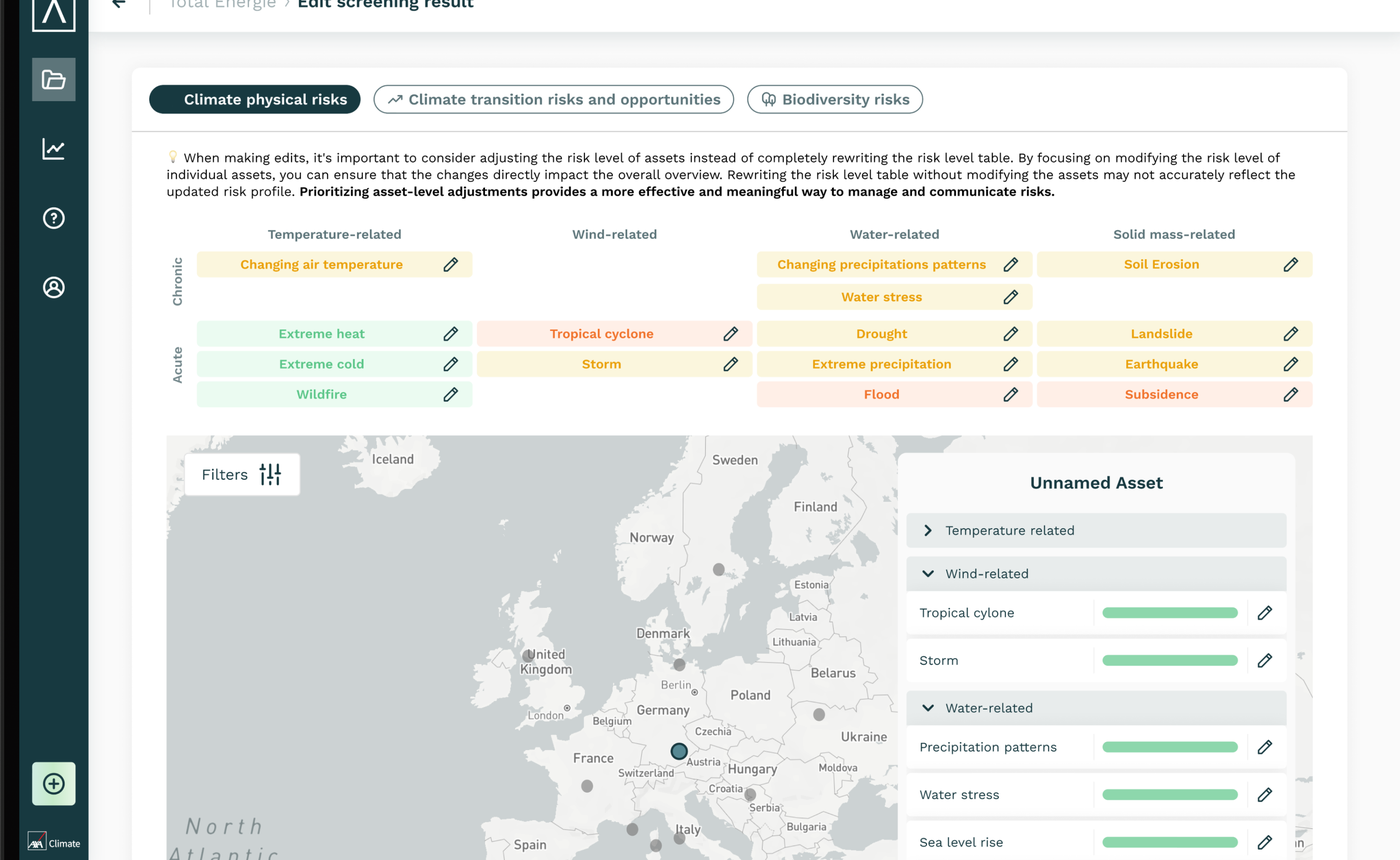
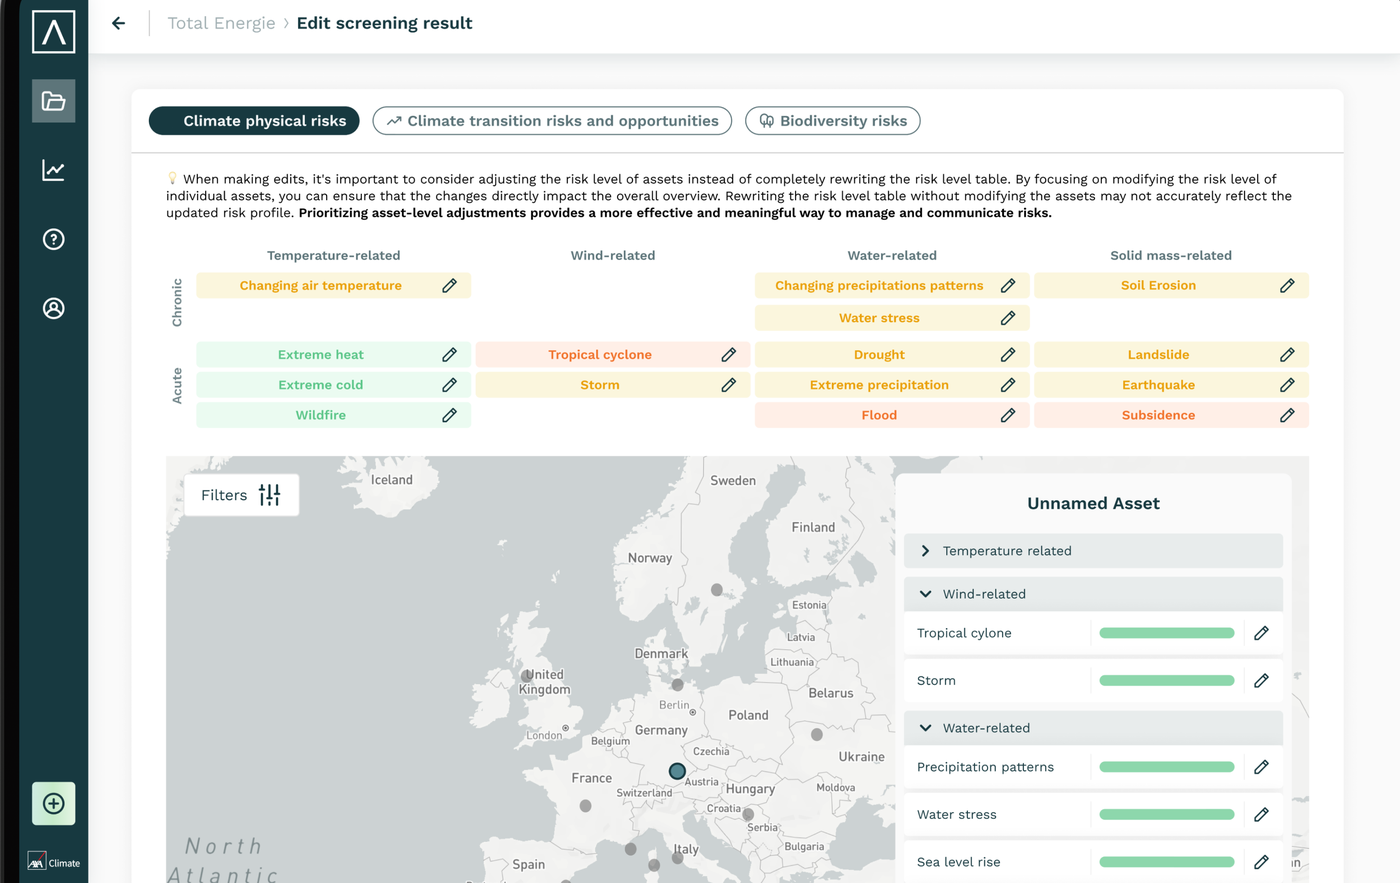
Theodo frieze: full uncut screens with clean uniform thin black rounded frame; erase MacBook notch, include full nav + header

diff --git a/index.html b/index.html
@@ -276,18 +276,18 @@
     </div>
     <div data-reveal style="margin-top:26px;overflow:hidden;">
       <div style="display:flex;gap:16px;width:max-content;animation:marq 55s linear infinite;">
-        <div style="height:400px;flex:none;border-radius:20px;background:#d7efe8;padding:16px;display:flex;align-items:center;justify-content:center;"><img src="assets/theodo-s5.png" alt="" loading="lazy" style="max-height:100%;max-width:100%;width:auto;border-radius:8px;box-shadow:0 10px 30px -18px rgba(26,26,26,.35);object-fit:contain;"></div>
-        <div style="height:400px;flex:none;border-radius:20px;background:#d7efe8;padding:16px;display:flex;align-items:center;justify-content:center;"><img src="assets/theodo-sp1.png" alt="" loading="lazy" style="max-height:100%;max-width:100%;width:auto;border-radius:8px;box-shadow:0 10px 30px -18px rgba(26,26,26,.35);object-fit:contain;"></div>
-        <div style="height:400px;flex:none;border-radius:20px;background:#d7efe8;padding:16px;display:flex;align-items:center;justify-content:center;"><img src="assets/theodo-sp2.png" alt="" loading="lazy" style="max-height:100%;max-width:100%;width:auto;border-radius:8px;box-shadow:0 10px 30px -18px rgba(26,26,26,.35);object-fit:contain;"></div>
-        <div style="height:400px;flex:none;border-radius:20px;background:#d5e2f5;padding:16px;display:flex;align-items:center;justify-content:center;"><img src="assets/theodo-s1.png" alt="" loading="lazy" style="max-height:100%;max-width:100%;width:auto;border-radius:8px;box-shadow:0 10px 30px -18px rgba(26,26,26,.35);object-fit:contain;"></div>
-        <div style="height:400px;flex:none;border-radius:20px;background:#fbe0cd;padding:16px;display:flex;align-items:center;justify-content:center;"><img src="assets/theodo-s2.png" alt="" loading="lazy" style="max-height:100%;max-width:100%;width:auto;border-radius:8px;box-shadow:0 10px 30px -18px rgba(26,26,26,.35);object-fit:contain;"></div>
-        <div style="height:400px;flex:none;border-radius:20px;background:#e7def5;padding:16px;display:flex;align-items:center;justify-content:center;"><img src="assets/theodo-s3.png" alt="" loading="lazy" style="max-height:100%;max-width:100%;width:auto;border-radius:8px;box-shadow:0 10px 30px -18px rgba(26,26,26,.35);object-fit:contain;"></div>
-        <div style="height:400px;flex:none;border-radius:20px;background:#d7efe8;padding:16px;display:flex;align-items:center;justify-content:center;"><img src="assets/theodo-s5.png" alt="" loading="lazy" style="max-height:100%;max-width:100%;width:auto;border-radius:8px;box-shadow:0 10px 30px -18px rgba(26,26,26,.35);object-fit:contain;"></div>
-        <div style="height:400px;flex:none;border-radius:20px;background:#d7efe8;padding:16px;display:flex;align-items:center;justify-content:center;"><img src="assets/theodo-sp1.png" alt="" loading="lazy" style="max-height:100%;max-width:100%;width:auto;border-radius:8px;box-shadow:0 10px 30px -18px rgba(26,26,26,.35);object-fit:contain;"></div>
-        <div style="height:400px;flex:none;border-radius:20px;background:#d7efe8;padding:16px;display:flex;align-items:center;justify-content:center;"><img src="assets/theodo-sp2.png" alt="" loading="lazy" style="max-height:100%;max-width:100%;width:auto;border-radius:8px;box-shadow:0 10px 30px -18px rgba(26,26,26,.35);object-fit:contain;"></div>
-        <div style="height:400px;flex:none;border-radius:20px;background:#d5e2f5;padding:16px;display:flex;align-items:center;justify-content:center;"><img src="assets/theodo-s1.png" alt="" loading="lazy" style="max-height:100%;max-width:100%;width:auto;border-radius:8px;box-shadow:0 10px 30px -18px rgba(26,26,26,.35);object-fit:contain;"></div>
-        <div style="height:400px;flex:none;border-radius:20px;background:#fbe0cd;padding:16px;display:flex;align-items:center;justify-content:center;"><img src="assets/theodo-s2.png" alt="" loading="lazy" style="max-height:100%;max-width:100%;width:auto;border-radius:8px;box-shadow:0 10px 30px -18px rgba(26,26,26,.35);object-fit:contain;"></div>
-        <div style="height:400px;flex:none;border-radius:20px;background:#e7def5;padding:16px;display:flex;align-items:center;justify-content:center;"><img src="assets/theodo-s3.png" alt="" loading="lazy" style="max-height:100%;max-width:100%;width:auto;border-radius:8px;box-shadow:0 10px 30px -18px rgba(26,26,26,.35);object-fit:contain;"></div>
+        <div style="height:400px;flex:none;border-radius:20px;background:#d7efe8;padding:16px;display:flex;align-items:center;justify-content:center;"><img src="assets/theodo-s5.png" alt="" loading="lazy" style="max-height:100%;max-width:100%;width:auto;border:4px solid #0f0f0f;border-radius:16px;box-shadow:0 14px 34px -18px rgba(26,26,26,.42);object-fit:contain;"></div>
+        <div style="height:400px;flex:none;border-radius:20px;background:#d7efe8;padding:16px;display:flex;align-items:center;justify-content:center;"><img src="assets/theodo-sp1.png" alt="" loading="lazy" style="max-height:100%;max-width:100%;width:auto;border:4px solid #0f0f0f;border-radius:16px;box-shadow:0 14px 34px -18px rgba(26,26,26,.42);object-fit:contain;"></div>
+        <div style="height:400px;flex:none;border-radius:20px;background:#d7efe8;padding:16px;display:flex;align-items:center;justify-content:center;"><img src="assets/theodo-sp2.png" alt="" loading="lazy" style="max-height:100%;max-width:100%;width:auto;border:4px solid #0f0f0f;border-radius:16px;box-shadow:0 14px 34px -18px rgba(26,26,26,.42);object-fit:contain;"></div>
+        <div style="height:400px;flex:none;border-radius:20px;background:#d5e2f5;padding:16px;display:flex;align-items:center;justify-content:center;"><img src="assets/theodo-s1.png" alt="" loading="lazy" style="max-height:100%;max-width:100%;width:auto;border:4px solid #0f0f0f;border-radius:16px;box-shadow:0 14px 34px -18px rgba(26,26,26,.42);object-fit:contain;"></div>
+        <div style="height:400px;flex:none;border-radius:20px;background:#fbe0cd;padding:16px;display:flex;align-items:center;justify-content:center;"><img src="assets/theodo-s2.png" alt="" loading="lazy" style="max-height:100%;max-width:100%;width:auto;border:4px solid #0f0f0f;border-radius:16px;box-shadow:0 14px 34px -18px rgba(26,26,26,.42);object-fit:contain;"></div>
+        <div style="height:400px;flex:none;border-radius:20px;background:#e7def5;padding:16px;display:flex;align-items:center;justify-content:center;"><img src="assets/theodo-s3.png" alt="" loading="lazy" style="max-height:100%;max-width:100%;width:auto;border:4px solid #0f0f0f;border-radius:16px;box-shadow:0 14px 34px -18px rgba(26,26,26,.42);object-fit:contain;"></div>
+        <div style="height:400px;flex:none;border-radius:20px;background:#d7efe8;padding:16px;display:flex;align-items:center;justify-content:center;"><img src="assets/theodo-s5.png" alt="" loading="lazy" style="max-height:100%;max-width:100%;width:auto;border:4px solid #0f0f0f;border-radius:16px;box-shadow:0 14px 34px -18px rgba(26,26,26,.42);object-fit:contain;"></div>
+        <div style="height:400px;flex:none;border-radius:20px;background:#d7efe8;padding:16px;display:flex;align-items:center;justify-content:center;"><img src="assets/theodo-sp1.png" alt="" loading="lazy" style="max-height:100%;max-width:100%;width:auto;border:4px solid #0f0f0f;border-radius:16px;box-shadow:0 14px 34px -18px rgba(26,26,26,.42);object-fit:contain;"></div>
+        <div style="height:400px;flex:none;border-radius:20px;background:#d7efe8;padding:16px;display:flex;align-items:center;justify-content:center;"><img src="assets/theodo-sp2.png" alt="" loading="lazy" style="max-height:100%;max-width:100%;width:auto;border:4px solid #0f0f0f;border-radius:16px;box-shadow:0 14px 34px -18px rgba(26,26,26,.42);object-fit:contain;"></div>
+        <div style="height:400px;flex:none;border-radius:20px;background:#d5e2f5;padding:16px;display:flex;align-items:center;justify-content:center;"><img src="assets/theodo-s1.png" alt="" loading="lazy" style="max-height:100%;max-width:100%;width:auto;border:4px solid #0f0f0f;border-radius:16px;box-shadow:0 14px 34px -18px rgba(26,26,26,.42);object-fit:contain;"></div>
+        <div style="height:400px;flex:none;border-radius:20px;background:#fbe0cd;padding:16px;display:flex;align-items:center;justify-content:center;"><img src="assets/theodo-s2.png" alt="" loading="lazy" style="max-height:100%;max-width:100%;width:auto;border:4px solid #0f0f0f;border-radius:16px;box-shadow:0 14px 34px -18px rgba(26,26,26,.42);object-fit:contain;"></div>
+        <div style="height:400px;flex:none;border-radius:20px;background:#e7def5;padding:16px;display:flex;align-items:center;justify-content:center;"><img src="assets/theodo-s3.png" alt="" loading="lazy" style="max-height:100%;max-width:100%;width:auto;border:4px solid #0f0f0f;border-radius:16px;box-shadow:0 14px 34px -18px rgba(26,26,26,.42);object-fit:contain;"></div>
       </div>
     </div>
   </section>
